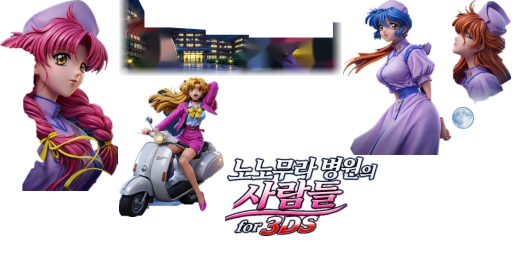
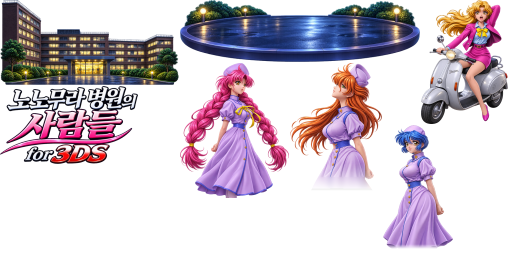
홈 메뉴 배너: 따로 그린 조각(무대·병원·인물·로고)으로 입체 무대 재구성, 바닥은 기울인 판
Claude-Session: https://claude.ai/code/session_013wE7ze3tVQbgpdSDadcPGE

diff --git a/tools/gen_banner_layers.py b/tools/gen_banner_layers.py
@@ -1,139 +1,88 @@
 #!/usr/bin/env python3
-"""홈 메뉴 배너용 조각 만들기 (PC 에서 한 번 실행 — opencv·numpy·Pillow 필요).
+"""홈 메뉴 배너용 조각 모음 만들기 (PC 에서 한 번 실행 — numpy·Pillow·opencv 필요).
 
-    python3 tools/gen_banner_layers.py ctr/banner_src.png ctr
+    python3 tools/gen_banner_layers.py ctr/banner_parts ctr
 
-원화(1440x720)에서 로고·인물 넷·달·병원을 오려 내어 512x256 조각 모음(ctr/banner_atlas.png)과
-배치표(ctr/banner_layout.json: 조각별 위치·깊이)를 만든다. 인물은 손으로 잡은 대략의 윤곽 안에서
-GrabCut 으로, 로고는 색으로, 병원은 지붕선 아래 전부로 잡고 인물에 가려진 곳은 주변으로 메운다.
-tools/banner_diorama.py 가 이 둘로 배너 모델을 만든다. 깊이는 Z, 조각 크기는 SC 를 고친다.
+ctr/banner_parts/ 의 조각 그림(배경이 투명한 PNG: 무대·병원·인물 넷·로고)을 512x256 조각 모음
+(ctr/banner_atlas.png)에 채워 넣고 배치표(ctr/banner_layout.json)를 쓴다. tools/banner_diorama.py 가
+이 둘로 배너 모델을 만든다. 배치는 아래 LAYOUT 을 고친다.
+
+좌표: 배너 평면은 가로 26(x -13..13), 세로 13(y -7.5..5.5), z 는 + 가 보는 사람 쪽.
 """
-import cv2, numpy as np, json, sys
-SRC=sys.argv[1] if len(sys.argv)>1 else 'src.png'; OUT=sys.argv[2] if len(sys.argv)>2 else '.'
-im=cv2.imread(SRC); H,W=im.shape[:2]
-hsv=cv2.cvtColor(im,cv2.COLOR_BGR2HSV).astype(int); Hh,S,V=hsv[...,0],hsv[...,1],hsv[...,2]
-def poly(pts):
-    m=np.zeros((H,W),np.uint8); cv2.fillPoly(m,[np.array(pts,np.int32)],255); return m
-# 하늘색(어두운 남색·청회색 구름): 색상 100~125(파랑), 채도·명도 낮음
-sky=((Hh>=98)&(Hh<=128)&(V<120))|(V<40)
-P={
- 'orange':[(250,60),(330,5),(400,5),(480,60),(475,140),(505,250),(450,330),(430,410),(330,410),(280,320),(262,300),(262,235),(245,180),(255,120)],
- 'blue':[(85,190),(140,150),(240,160),(262,235),(262,300),(300,290),(350,330),(365,420),(330,470),(405,620),(405,720),(25,720),(100,560),(130,470),(100,430),(0,450),(0,350),(120,300),(92,250)],
- 'scooter':[(858,265),(900,225),(980,190),(1085,198),(1135,230),(1130,330),(1085,395),(1100,440),(1140,470),(1145,600),(1090,695),(760,705),(752,620),(800,520),(835,440),(810,395),(845,335),(900,330),(870,300)],
- 'pink':[(1000,185),(1040,150),(1090,90),(1180,35),(1340,15),(1385,100),(1440,200),(1440,720),(1060,720),(1090,695),(1145,600),(1140,470),(1100,440),(1085,395),(1130,330),(1135,230),(1085,198),(1040,200)],
-}
-out={}
-for name,pts in P.items():
-    pm=poly(pts)
-    gc=np.full((H,W),cv2.GC_BGD,np.uint8); gc[pm>0]=cv2.GC_PR_FGD
-    inner=cv2.erode(pm,np.ones((31,31),np.uint8))
-    bright=(V>150)&(~sky)
-    gc[(inner>0)&bright]=cv2.GC_FGD
-    gc[(pm>0)&sky&(V<70)]=cv2.GC_PR_BGD
-    if name=='scooter':
-        e=np.zeros((H,W),np.uint8); cv2.ellipse(e,(808,655),(46,53),0,0,360,255,-1)
-        cv2.fillPoly(e,[np.array([(940,575),(1045,560),(1040,640),(1000,662),(975,655),(960,640),(935,640)],np.int32)],255)
-        gc[e>0]=cv2.GC_FGD
-        b=poly([(868,668),(985,668),(1000,720),(868,720)]); gc[b>0]=cv2.GC_BGD
-    if name=='blue':
-        b=poly([(40,300),(125,300),(125,347),(40,347)]); gc[b>0]=cv2.GC_BGD
-    x,y,w,h=cv2.boundingRect(np.array(pts,np.int32)); pad=40
-    x0,y0,x1,y1=max(0,x-pad),max(0,y-pad),min(W,x+w+pad),min(H,y+h+pad)
-    sub=im[y0:y1,x0:x1].copy(); g=gc[y0:y1,x0:x1].copy()
-    bg=np.zeros((1,65),np.float64); fg=np.zeros((1,65),np.float64)
-    cv2.grabCut(sub,g,None,bg,fg,6,cv2.GC_INIT_WITH_MASK)
-    m=np.zeros((H,W),np.uint8); m[y0:y1,x0:x1]=np.where((g==cv2.GC_FGD)|(g==cv2.GC_PR_FGD),255,0)
-    # 작은 조각 제거, 구멍 메우기
-    n,lab,st,_=cv2.connectedComponentsWithStats(m)
-    keep=np.zeros_like(m)
-    for i in range(1,n):
-        if st[i,cv2.CC_STAT_AREA]>=1500: keep[lab==i]=255
-    inv=255-keep; n,lab,st,_=cv2.connectedComponentsWithStats(inv)
-    for i in range(1,n):
-        if st[i,cv2.CC_STAT_AREA]<400: keep[lab==i]=255
-    out[name]=keep
-# 로고: 영역 안의 밝거나 분홍·빨강인 화소 + 테두리
-lp=poly([(405,120),(965,120),(965,225),(880,310),(775,405),(478,405),(400,345),(445,250)])
-lg=((V>135)&(S<90))|(((Hh>=140)|(Hh<=10))&(S>90)&(V>110))
-lg=(lg&(lp>0)).astype(np.uint8)*255
-lg=cv2.morphologyEx(lg,cv2.MORPH_CLOSE,np.ones((7,7),np.uint8))
-n,lab,st,_=cv2.connectedComponentsWithStats(lg)
-for i in range(1,n):
-    if st[i,cv2.CC_STAT_AREA]<60: lg[lab==i]=0
-lg=cv2.dilate(lg,cv2.getStructuringElement(cv2.MORPH_ELLIPSE,(9,9)))
-chars=np.zeros((H,W),np.uint8)
-for n_ in ['orange','blue','pink','scooter']: chars|=out[n_]
-lg[cv2.dilate(chars,np.ones((15,15),np.uint8))>0]=0
-n,lab,st,_=cv2.connectedComponentsWithStats(lg)
-for i in range(1,n):
-    if st[i,cv2.CC_STAT_AREA]<900: lg[lab==i]=0
-out['logo']=lg
-# 달
-mn=np.zeros((H,W),np.uint8); cv2.circle(mn,(996,52),40,255,-1); out['moon']=mn
-# 병원+바닥: 지붕선 아래 전부
-bd=poly([(0,228),(128,228),(165,300),(165,405),(335,405),(560,420),(560,452),(838,452),(838,470),(1380,470),(1380,372),(1440,372),(1440,720),(0,720)])
-out['building']=bd
-# ================= 조각 → 아틀라스(512x256 RGBA) + 배치표 =================
+import json, sys
+import numpy as np, cv2
 from PIL import Image
-AW,AH=512,256
-ORDER=['moon','building','orange','blue','pink','scooter','logo']          # 뒤 → 앞
-Z={'moon':-3.0,'building':-1.6,'orange':-0.4,'blue':0.8,'pink':1.2,'scooter':1.9,'logo':2.7}
-SC={'moon':0.30,'building':0.17,'orange':0.30,'blue':0.30,'pink':0.30,'scooter':0.30,'logo':0.33}
-rgb=cv2.cvtColor(im,cv2.COLOR_BGR2RGB)
-# 병원: 인물에 가려진 곳을 주변으로 메움
-front=np.zeros((H,W),np.uint8)
-for n_ in ['orange','blue','pink','scooter']: front|=out[n_]
-front=cv2.dilate(front,np.ones((9,9),np.uint8))
-small=cv2.resize(im,(W//4,H//4),interpolation=cv2.INTER_AREA); fm=cv2.resize(front,(W//4,H//4),interpolation=cv2.INTER_NEAREST)
-bfill=cv2.inpaint(small,fm,5,cv2.INPAINT_TELEA); bfill=cv2.cvtColor(cv2.resize(bfill,(W,H),interpolation=cv2.INTER_CUBIC),cv2.COLOR_BGR2RGB)
-bsrc=rgb.copy(); bsrc[front>0]=bfill[front>0]
-# 주황 머리 간호사: 아래쪽은 서서히 사라지게
-fade=np.ones((H,W),np.float32); ys=np.arange(H,dtype=np.float32)[:,None]; fade*=np.clip((400-ys)/70,0,1)
-def make_layers(k):
-    layers={}
-    for n_ in ORDER:
-        m=out[n_].astype(np.float32)/255
-        if n_=='orange': m=m*fade
-        if n_=='building':        # 양옆과 아래를 서서히 투명하게 — 떠 있는 무대처럼
-            xs_=np.arange(W,dtype=np.float32)[None,:]
-            m=m*np.clip(xs_/70,0,1)*np.clip((W-1-xs_)/70,0,1)*np.clip((H-1-ys)/60,0,1)
-        src=bsrc if n_=='building' else rgb
-        yy,xx=np.where(m>0.02); x0,x1,y0,y1=xx.min(),xx.max()+1,yy.min(),yy.max()+1
-        s=SC[n_]*k; w,h=max(2,int(round((x1-x0)*s))),max(2,int(round((y1-y0)*s)))
-        a=cv2.GaussianBlur(m[y0:y1,x0:x1],(0,0),1.2)
-        # 투명한 곳의 색은 가장자리 색으로 번지게 (어두운 테두리 방지)
-        c=src[y0:y1,x0:x1].astype(np.float32); hard=(m[y0:y1,x0:x1]>0.5).astype(np.float32)
-        acc=c*hard[...,None]; wgt=hard.copy()
-        for _ in range(6):
-            acc=cv2.blur(acc,(9,9)); wgt=cv2.blur(wgt,(9,9))
-            fillc=acc/np.maximum(wgt[...,None],1e-4); c=np.where(hard[...,None]>0,c,fillc); acc=c*np.maximum(hard,(wgt>1e-3).astype(np.float32))[...,None]; wgt=np.maximum(hard,(wgt>1e-3).astype(np.float32))
-        c=cv2.resize(c,(w,h),interpolation=cv2.INTER_AREA); a=cv2.resize(a,(w,h),interpolation=cv2.INTER_AREA)
-        layers[n_]=dict(rgba=np.dstack([np.clip(c,0,255),np.clip(a*255,0,255)]).astype(np.uint8),box=(x0,y0,x1,y1))
-    return layers
-def pack(layers):
-    sky=[0]*AW; place={}
-    for n_ in sorted(ORDER,key=lambda k:-layers[k]['rgba'].shape[0]*layers[k]['rgba'].shape[1]):
-        h,w=layers[n_]['rgba'].shape[:2]; best=None
-        for x in range(0,AW-w+1):
-            y=max(sky[x:x+w])
-            if y+h<=AH and (best is None or y<best[1]): best=(x,y)
+
+AW, AH = 512, 256
+# (이름, 가운데 x, 바닥 y, 높이, z, 화소 밀도 배율, 아래쪽 흐림 비율)   — 뒤 → 앞 순서
+LAYOUT = [
+    ('hospital', 0.0, -3.6, 7.7, -3.0, 0.62, 0.0),
+    ('stage',    0.0, -7.6, 5.6, [2.6, -2.4], 0.62, 0.0),      # 바닥: 아래(앞) z 2.6 → 위(뒤) z -2.4
+    ('orange',  -8.8, -5.3, 7.2, -0.6, 1.0, 0.22),
+    ('pink',     8.2, -5.7, 7.6,  0.2, 1.0, 0.0),
+    ('blue',    -4.6, -6.1, 7.0,  0.9, 1.0, 0.04),
+    ('scooter',  2.0, -7.0, 7.0,  1.8, 1.0, 0.0),
+    ('logo',     0.0,  1.1, 4.4,  3.0, 1.0, 0.0),
+]
+
+
+def load(path, fade):
+    a = np.array(Image.open(path).convert('RGBA')).astype(np.float32)
+    al = a[..., 3] / 255
+    al[al < 0.16] = 0                                         # 배경에 남은 옅은 얼룩 제거
+    n, lab, st, _ = cv2.connectedComponentsWithStats((al > 0).astype(np.uint8))
+    for i in range(1, n):
+        if st[i, cv2.CC_STAT_AREA] < 400: al[lab == i] = 0
+    ys, xs = np.where(al > 0); x0, x1, y0, y1 = xs.min(), xs.max() + 1, ys.min(), ys.max() + 1
+    a = a[y0:y1, x0:x1]; al = al[y0:y1, x0:x1]
+    if fade:                                                  # 잘린 아랫단을 서서히 투명하게
+        h = al.shape[0]; k = int(h * fade)
+        al[h-k:] *= np.linspace(1, 0, k, dtype=np.float32)[:, None]
+    # 투명한 곳의 색을 가장자리 색으로 번지게 (줄였을 때 흰 테두리 방지)
+    c = a[..., :3]; hard = (al > 0.5).astype(np.float32); acc = c * hard[..., None]; wgt = hard.copy()
+    for _ in range(8):
+        acc = cv2.blur(acc, (15, 15)); wgt = cv2.blur(wgt, (15, 15))
+        c = np.where(hard[..., None] > 0, c, acc / np.maximum(wgt[..., None], 1e-4))
+        known = np.maximum(hard, (wgt > 1e-3).astype(np.float32)); acc = c * known[..., None]; wgt = known
+    return c, al
+
+
+def pack(sizes):
+    sky = [0] * AW; place = {}
+    for n in sorted(sizes, key=lambda k: -sizes[k][0] * sizes[k][1]):
+        w, h = sizes[n]; best = None
+        for x in range(0, AW - w + 1):
+            y = max(sky[x:x+w])
+            if y + h <= AH and (best is None or y < best[1]): best = (x, y)
         if best is None: return None
-        x,y=best; place[n_]=(x,y,w,h)
-        for i in range(x,min(AW,x+w+1)): sky[i]=y+h+1
+        x, y = best; place[n] = (x, y, w, h)
+        for i in range(x, min(AW, x + w + 1)): sky[i] = y + h + 1
     return place
-k=1.0
-while True:
-    layers=make_layers(k); place=pack(layers)
-    if place: break
-    k*=0.97
-atlas=np.zeros((AH,AW,4),np.uint8)
-for n_,(x,y,w,h) in place.items(): atlas[y:y+h,x:x+w]=layers[n_]['rgba']
-print('scale factor',k)
-print(place)
-Image.fromarray(atlas,'RGBA').save(OUT+'/banner_atlas.png')
-# 배치표: 평면 26x13 (x -13..13, y 5.5..-7.5) 에 원래 구도대로
-lay=[]
-for n_ in ORDER:
-    x0,y0,x1,y1=[float(v) for v in layers[n_]['box']]; ax,ay,aw,ah=place[n_]
-    lay.append(dict(name=n_,z=Z[n_],quad=[-13+26*x0/W, 5.5-13*y1/H, -13+26*x1/W, 5.5-13*y0/H],uv=[ax,ay,aw,ah]))
-json.dump(dict(atlas=[AW,AH],layers=lay),open(OUT+'/banner_layout.json','w'),indent=1)
+
+
+def main():
+    src, out = sys.argv[1], sys.argv[2]
+    parts = {n: load('%s/%s.png' % (src, n), fade) for (n, _, _, _, _, _, fade) in LAYOUT}
+    dens = 22.0                                               # 평면 1 단위당 화소 수 — 안 들어가면 줄인다
+    while True:
+        sizes = {}
+        for (n, cx, by, hgt, z, k, _) in LAYOUT:
+            c, al = parts[n]; ph = max(2, round(hgt * dens * k)); pw = max(2, round(ph * al.shape[1] / al.shape[0]))
+            sizes[n] = (pw, ph)
+        place = pack(sizes)
+        if place: break
+        dens *= 0.97
+    atlas = np.zeros((AH, AW, 4), np.uint8); lay = []
+    for (n, cx, by, hgt, z, k, _) in LAYOUT:
+        c, al = parts[n]; x, y, w, h = place[n]
+        atlas[y:y+h, x:x+w, :3] = np.clip(cv2.resize(c, (w, h), interpolation=cv2.INTER_AREA), 0, 255)
+        atlas[y:y+h, x:x+w, 3] = np.clip(cv2.resize(al, (w, h), interpolation=cv2.INTER_AREA) * 255, 0, 255)
+        wid = hgt * al.shape[1] / al.shape[0]
+        lay.append(dict(name=n, z=z, quad=[round(cx - wid / 2, 3), by, round(cx + wid / 2, 3), round(by + hgt, 3)], uv=[x, y, w, h]))
+    Image.fromarray(atlas, 'RGBA').save(out + '/banner_atlas.png')
+    json.dump(dict(atlas=[AW, AH], layers=lay), open(out + '/banner_layout.json', 'w'), indent=1)
+    print('화소 밀도 %.1f' % dens, place)
+
+
+if __name__ == '__main__':
+    main()

diff --git a/tools/banner_diorama.py b/tools/banner_diorama.py
@@ -6,7 +6,8 @@
 
 bannertool 이 만든 평면 배너의 모델(사각형 한 장 + 256x128 RGBA4444 그림)을 틀로 쓴다.
  - 그림: 조각 모음(아틀라스, RGBA PNG)을 RGBA4444 로 바꿔 파일 끝에 덧붙이고 TXOB 의 크기·위치를 고친다.
- - 모양: 조각마다 사각형 하나를 제 깊이(z)에 세운다. 뒤에서 앞 순서로 그려 반투명 가장자리가 맞게 섞인다.
+ - 모양: 조각마다 사각형 하나를 제 깊이(z)에 세운다(바닥은 위쪽을 뒤로 기울인다). 배치표 순서(뒤→앞)대로 그려
+   반투명 가장자리가 맞게 섞인다.
 재질·셰이더 등 나머지는 그대로 둔다. 배치표는 tools/gen_banner_layers.py 가 만든다.
 """
 import json, struct, sys, zlib
@@ -118,15 +119,17 @@ def build(cgfx, atlas, layout):
     g = bytearray(cgfx); f = find_parts(g)
     w, h, rows = atlas
     assert [w, h] == layout['atlas'] and w & (w - 1) == 0 and h & (h - 1) == 0 and 8 <= w <= 1024 and 8 <= h <= 1024, '조각 모음 크기는 2의 거듭제곱'
-    layers = sorted(layout['layers'], key=lambda l: l['z'])           # 뒤 → 앞
+    layers = layout['layers']                                        # 배치표 순서 = 그리는 순서 (뒤 → 앞)
     assert len(layers) * 4 <= 256
     verts = bytearray(); idx = bytearray(); zmax = 0.0
     for n, l in enumerate(layers):
-        x0, y0, x1, y1 = l['quad']; ax, ay, aw, ah = l['uv']; z = float(l['z']); zmax = max(zmax, abs(z))
+        x0, y0, x1, y1 = l['quad']; ax, ay, aw, ah = l['uv']
+        zb, zt = l['z'] if isinstance(l['z'], list) else (l['z'], l['z'])   # [아래쪽 z, 위쪽 z] 면 기울어진 판(바닥)
+        zmax = max(zmax, abs(zb), abs(zt))
         u0, u1 = (ax + 0.25) / w, (ax + aw - 0.25) / w
         vt, vb_ = 1 - (ay + 0.25) / h, 1 - (ay + ah - 0.25) / h        # 그림 위쪽 행이 v=1
-        for (x, y, u, v) in ((x0, y0, u0, vb_), (x1, y0, u1, vb_), (x0, y1, u0, vt), (x1, y1, u1, vt)):
-            verts += struct.pack('<5f', x, y, z, u, v)
+        for (x, y, z, u, v) in ((x0, y0, zb, u0, vb_), (x1, y0, zb, u1, vb_), (x0, y1, zt, u0, vt), (x1, y1, zt, u1, vt)):
+            verts += struct.pack('<5f', x, y, float(z), u, v)
         b = n * 4
         idx += bytes([b, b + 1, b + 2, b + 1, b + 3, b + 2])
     tex = encode_rgba4444(w, h, rows)

diff --git a/README.md b/README.md
@@ -29,7 +29,7 @@ SD:/3ds/nonomura/              ← 게임 파일 전부 (SILV1.COM, SILV.EXE, MU
 
 **설치형(CIA)**: `nonomura.cia`를 FBI 등으로 설치하면 HOME 메뉴에 아이콘/배너로 나타납니다(타이틀 ID `0004000000FA3D10`). 게임 파일 위치는 같습니다(`SD:/3ds/nonomura/`). CIA 는 New 3DS 804MHz·L2 캐시와 SD 카드 접근 권한을 앱 정보(`ctr/nonomura.rsf`)에 직접 적어 둡니다. 소리를 내려면 홈브루 때와 마찬가지로 `SD:/3ds/dspfirm.cdc`(DSP 펌웨어 덤프)가 있어야 합니다.
 
-**입체 홈 메뉴 배너**: 공식 게임처럼 배경이 뚫린 '오려 세운 조각' 무대입니다. `tools/gen_banner_layers.py`(PC 에서 한 번, opencv 필요)가 원화 `ctr/banner_src.png`에서 로고·인물 넷·달·병원을 오려 512x256 조각 모음 `ctr/banner_atlas.png`과 배치표 `ctr/banner_layout.json`(조각별 위치·깊이)을 만들고, CI 에서 `tools/banner_diorama.py`(외부 모듈 없음)가 bannertool 의 평면 배너를 틀로 삼아 그림을 조각 모음(RGBA4444)으로, 사각형 한 장을 조각별 사각형(뒤→앞 순서, 제각기 다른 z)으로 바꿉니다. 새 자료는 CGFX 끝에 덧붙이고 그것을 가리키는 값만 고칩니다. 깊이는 `gen_banner_layers.py`의 `Z`, 조각 크기는 `SC`. `ctr/banner.png`는 이 단계가 실패했을 때 쓰는 평면 그림입니다.
+**입체 홈 메뉴 배너**: 공식 게임처럼 배경이 뚫린 '오려 세운 조각' 무대입니다. 조각 그림(배경이 투명한 PNG — 무대·병원·인물 넷·로고)은 `ctr/banner_parts/`에 있고, `tools/gen_banner_layers.py`(PC 에서 한 번, numpy·Pillow·opencv 필요)가 이를 512x256 조각 모음 `ctr/banner_atlas.png`에 채우고 배치표 `ctr/banner_layout.json`(조각별 위치·깊이, 뒤→앞 순서)을 씁니다. CI 에서는 `tools/banner_diorama.py`(외부 모듈 없음)가 bannertool 의 평면 배너를 틀로 삼아 그림을 조각 모음(RGBA4444)으로, 사각형 한 장을 조각별 사각형(제각기 다른 z, 바닥 무대는 위쪽을 뒤로 기울임)으로 바꿉니다. 새 자료는 CGFX 끝에 덧붙이고 그것을 가리키는 값만 고칩니다. 위치·크기·깊이는 `gen_banner_layers.py`의 `LAYOUT`. `ctr/banner.png`는 이 단계가 실패했을 때 쓰는 평면 그림입니다.
 
 **게임 포함 CIA 만들기 도구 (HTML)**: 릴리스 `latest`의 `nonomura_cia_maker.html`을 휴대폰이나 PC 브라우저로 열고 게임 파일(zip 또는 파일 여러 개)과, 따로 있다면 한글 번역 파일을 고르면 게임 파일이 든 CIA 를 그 자리에서 만들어 저장합니다. 파일은 기기 밖으로 나가지 않고, 도구 안에는 게임 파일 없는 `nonomura.cia`만 들어 있습니다. 소스는 `tools/cia_maker/`(`ciacore.js`: zip 풀기·RomFS 생성·NCCH/TMD 갱신·시험용 키 재서명, `template.html`: 화면, `build.py`: 조립). 같은 파일 순서로 만들면 무작위 값(티켓, 콘텐츠 ID)을 빼고 makerom 결과와 바이트 단위로 같습니다.
 
